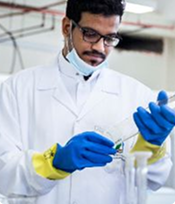
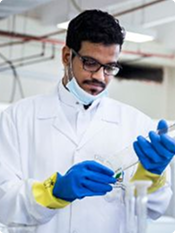
image positioning

diff --git a/src/index.css b/src/index.css
@@ -273,6 +273,7 @@ img {
 .impact {
   width: 100vw;
   height: 105vh;
+  
   position: relative;
   display: grid;
   place-items: center;
@@ -291,7 +292,7 @@ img {
   z-index: 3;
 
   left: 50%;
-  top: 50%;
+  top: 52vh;
 
   width: 175px;
   height: 233px;
@@ -345,7 +346,7 @@ img {
   display: block;
 }
 .impact__img--tl {
-  --fx: -510px;
+  --fx: -504px;
   --fy: -272px;
 }
 .impact__img--ml {
@@ -353,7 +354,7 @@ img {
   --fy: 14.5px;
 }
 .impact__img--bl {
-  --fx: -452px;
+  --fx: -470px;
   --fy: 292.5px;
 }
 
@@ -375,21 +376,22 @@ img {
   --fy: 291.5px;
 }
 .impact__img--bm1 {
-  --fx: 576px;
+  --fx: 562px;
   --fy: 20.5px;
 }
 .impact__img--bm2 {
-  --fx: 534px;
-  --fy: -258px;
+  --fx: 514px;
+  --fy: -247px;
 }
 
 .impact__img--bm3 {
-  --fx: 324px;
-  --fy: -378.5px;
+  --fx: 307px;
+  --fy: -373.5px;    
+  object-fit: fill;
 }
 .impact__img--bm4 {
-  --fx: 14px;
-  --fy: -570.5px;
+  --fx: 8px;
+  --fy: -563.5px;
 }
 .impact__img--bm5 {
   --fx: -302px;

diff --git a/src/sections/Photos.jsx b/src/sections/Photos.jsx
@@ -83,18 +83,23 @@ const Photos = () => {
         const HOLD = 0.12;
 
         // initial
+
         if (p <= HOLD) {
           if (setCenterAlpha) setCenterAlpha(0);
           if (setCenterY) setCenterY(8);
+
           section.classList.remove("show-final-text");
           section.classList.remove("images-hidden");
 
           images.forEach((_, i) => {
             setScale[i](0.98);
             setOpacity[i](i === heroIndex ? 1 : 0);
+
+            // reset back to center
             setDX;
             setDY;
           });
+
           return;
         }
 

diff --git a/src/App.jsx b/src/App.jsx
@@ -49,6 +49,7 @@ const App = () => {
 
         const local = raw - i; // 0..1 progress inside current slice
 
+        // your chosen exit point (default 0.98 if not provided)
         const exit = parseFloat(screens[i].dataset.exit || "0.99");
 
         if (i < n - 1 && local >= exit) {
